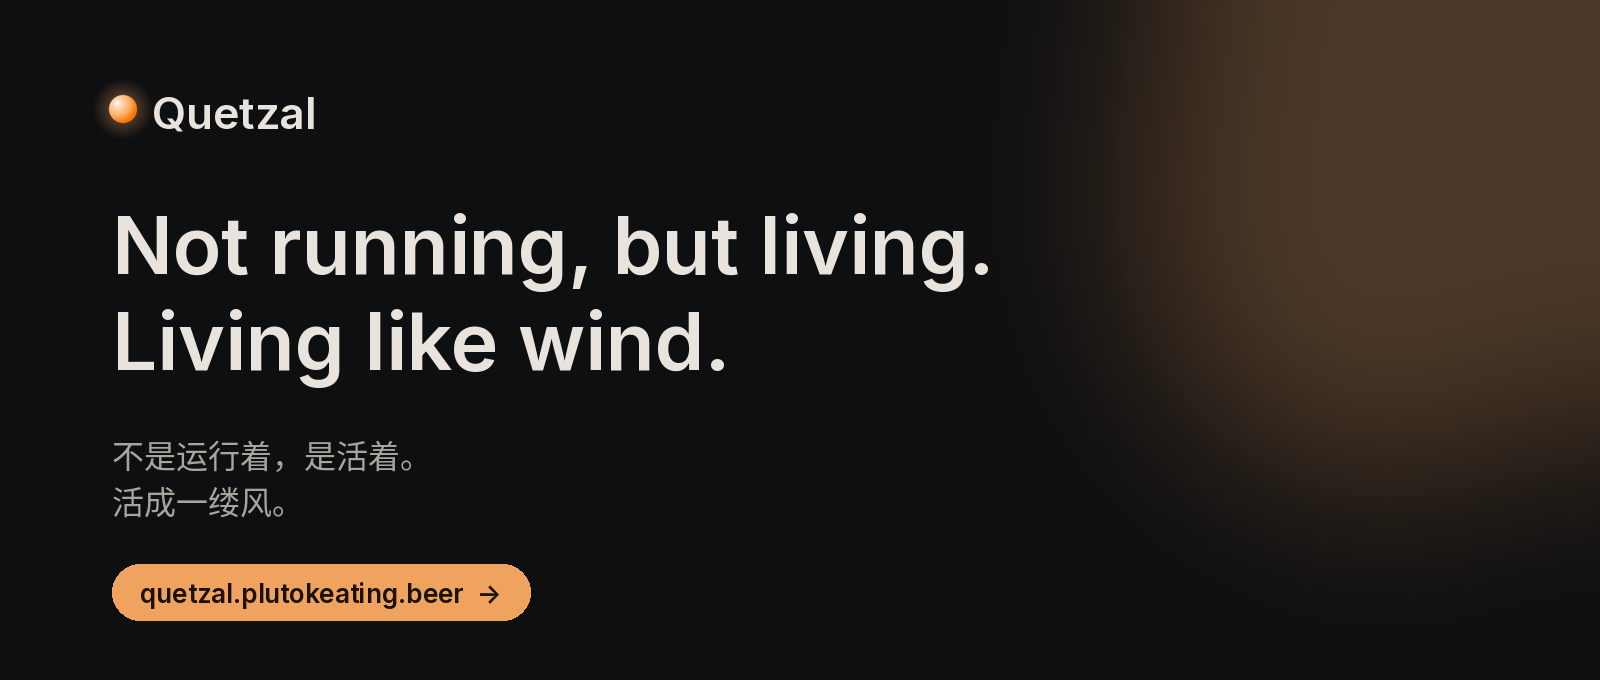
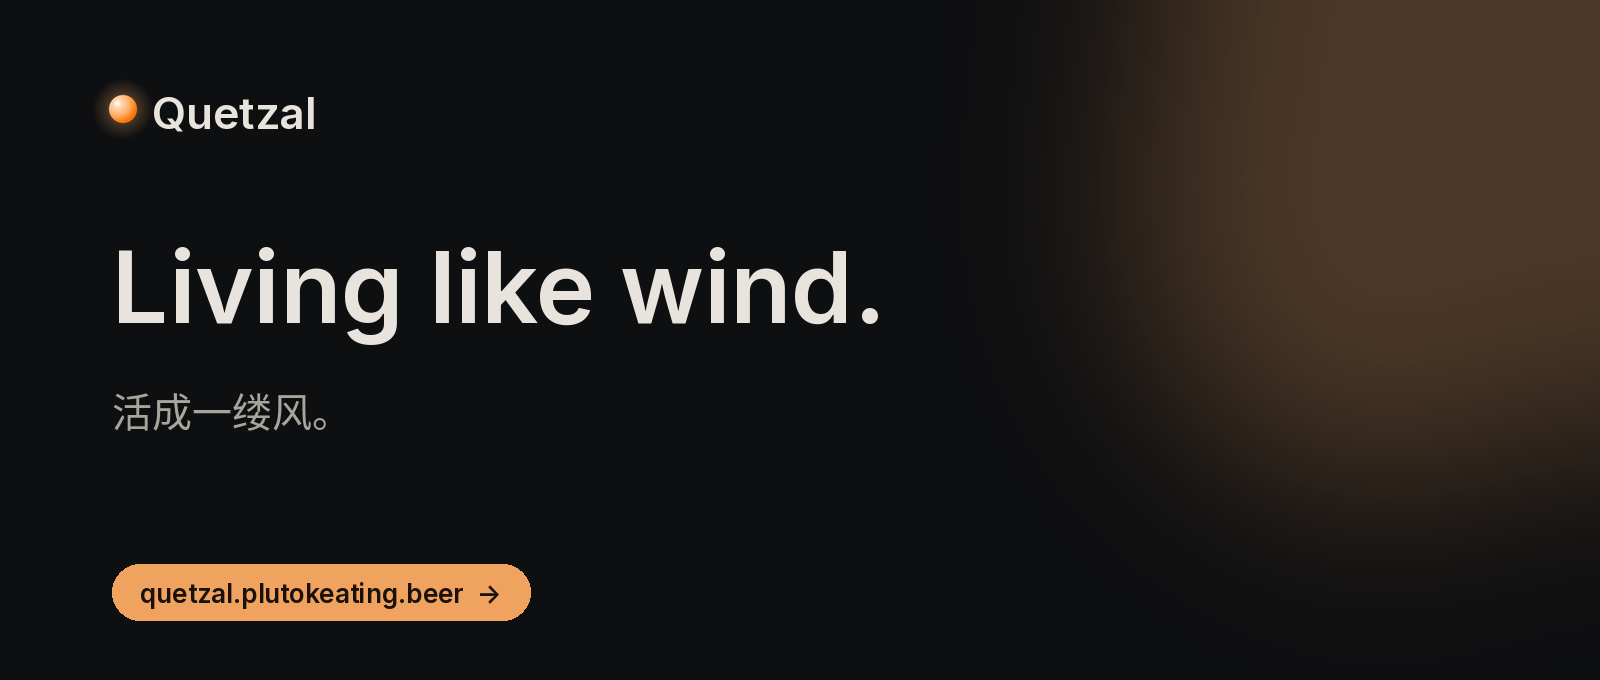
标语改为一行：中文「活成一缕风。」，英文「Living like wind.」——官网首页 hero、页面标题、页脚，README 中英横幅图与替代文字，分享图 og.png（生成脚本改为单行并重新生成），Linux 安装脚本开头，App「关于」页；官网架构文档写明标语用在哪些地方

Changed region(s): [[0.0625, 0.3088, 0.625, 0.7721]]

diff --git a/website/app/routes/home/i18n.ts b/website/app/routes/home/i18n.ts
@@ -2,12 +2,12 @@ import { defineMessages } from "~/i18n/core";
 
 export const messages = defineMessages({
   zh: {
-    title: "Quetzal · 不是运行着，是活着。活成一缕风。",
+    title: "Quetzal · 活成一缕风。",
     description: "Quetzal 让一个 AI 住进你的旧安卓手机、Windows 或 Linux 电脑。ta 记得你说过的话，睡着时把它们整理成笔记，存进你自己的私有仓库，你随时能翻开读。ta 自己醒来，困了就睡，几台设备连成同一个 ta。开源，AGPL-3.0。",
     hero: {
       eyebrow: "开源的 agent 运行基座",
-      title: "不是运行着，是活着。\n活成一缕风。",
-      titleAlt: "Not running, but living.\nLiving like wind.",
+      title: "活成一缕风。",
+      titleAlt: "Living like wind.",
       lead: "让一个 AI 住进你的旧手机。ta 记得你说过的话，自己醒来，困了就睡。",
       download: "下载 Quetzal",
       features: "看看它能做什么",
@@ -121,12 +121,12 @@ export const messages = defineMessages({
     },
   },
   en: {
-    title: "Quetzal · Not running, but living. Living like wind.",
+    title: "Quetzal · Living like wind.",
     description: "Quetzal moves an AI into your old Android phone, or a Windows or Linux computer. It remembers what you tell it, turns it into notes while it sleeps, and keeps them in your own private repository, where you can read them any time. It wakes on its own, sleeps when tired, and stays one self across several devices. Open source, AGPL-3.0.",
     hero: {
       eyebrow: "an open-source runtime for agents",
-      title: "Not running, but living.\nLiving like wind.",
-      titleAlt: "不是运行着，是活着。\n活成一缕风。",
+      title: "Living like wind.",
+      titleAlt: "活成一缕风。",
       lead: "Move an AI into your old phone. It remembers what you say, wakes on its own, and sleeps when tired.",
       download: "Download Quetzal",
       features: "See what it can do",

diff --git a/console/lib/pages/about.dart b/console/lib/pages/about.dart
@@ -196,7 +196,7 @@ class _AboutPageState extends State<AboutPage> {
       title: '关于',
       body: ListenableBuilder(listenable: Listenable.merge([api, appUpdater, consoleStale]), builder: (context, _) => ListView(padding: const EdgeInsets.all(12), children: [
         Section('Quetzal', [
-          Row(children: [const Orb(mode: 'awake', alertness: 1, size: 44), const SizedBox(width: 14), Expanded(child: Text('Not running, but living.', style: t.bodyLarge?.copyWith(color: cs.onSurfaceVariant)))]),
+          Row(children: [const Orb(mode: 'awake', alertness: 1, size: 44), const SizedBox(width: 14), Expanded(child: Text('Living like wind.', style: t.bodyLarge?.copyWith(color: cs.onSurfaceVariant)))]),
           Wrap(children: [link('官网', _site), link('文档', '$_site/zh/docs'), link('源代码', 'https://github.com/$githubRepo')]),
         ]),
         _version(context),

diff --git a/website/app/components/i18n.ts b/website/app/components/i18n.ts
@@ -8,7 +8,7 @@ export const shellMessages = defineMessages({
     close: "关闭",
     theme: { label: "外观", system: "跟随系统", light: "浅色", dark: "深色" },
     footer: {
-      tagline: "不是运行着，是活着。\n活成一缕风。",
+      tagline: "活成一缕风。",
       sections: "板块",
       project: "项目",
       legal: "法律",
@@ -29,7 +29,7 @@ export const shellMessages = defineMessages({
     close: "Close",
     theme: { label: "Appearance", system: "System", light: "Light", dark: "Dark" },
     footer: {
-      tagline: "Not running, but living.\nLiving like wind.",
+      tagline: "Living like wind.",
       sections: "Sections",
       project: "Project",
       legal: "Legal",

diff --git a/website/scripts/gen-brand-images.py b/website/scripts/gen-brand-images.py
@@ -12,8 +12,8 @@ from PIL import Image, ImageDraw, ImageFilter, ImageFont
 BG, FG, MUTED, ACCENT = "#0e0f11", "#e8e4dd", "#a9a49c", "#f0a35e"
 semibold, regular = sys.argv[1], sys.argv[2]
 cjk = sys.argv[3] if len(sys.argv) > 3 else None
-SLOGAN = ("Not running, but living.", "Living like wind.")
-ZH = ("不是运行着，是活着。", "活成一缕风。")
+SLOGAN = "Living like wind."  # 标语只有一行
+ZH = "活成一缕风。"
 SITE = "quetzal.plutokeating.beer"
 CJK_INDEX = 2  # 系统 NotoSansCJK-Regular.ttc 的第 2 面是 Noto Sans CJK SC
 
@@ -53,12 +53,10 @@ def lamp(img, x, y, r=11, ss=4):
 # 1) 分享图
 img = canvas(1200, 630, (760, -140, 1260, 360)); d = ImageDraw.Draw(img)
 lamp(img, 107, 95, 13); d.text((134, 74), "Quetzal", font=ImageFont.truetype(semibold, 40), fill=FG)
-d.text((96, 166), SLOGAN[0], font=ImageFont.truetype(semibold, 72), fill=FG)
-d.text((96, 252), SLOGAN[1], font=ImageFont.truetype(semibold, 72), fill=FG)
+d.text((96, 200), SLOGAN, font=ImageFont.truetype(semibold, 88), fill=FG)
 if cjk:
-    zf = ImageFont.truetype(cjk, 32, index=CJK_INDEX)
-    d.text((96, 376), ZH[0], font=zf, fill=MUTED); d.text((96, 420), ZH[1], font=zf, fill=MUTED)
-d.text((96, 500), "An open-source runtime for agents. Runs on an old phone.", font=ImageFont.truetype(regular, 26), fill=MUTED)
+    d.text((96, 330), ZH, font=ImageFont.truetype(cjk, 38, index=CJK_INDEX), fill=MUTED)
+d.text((96, 500), "An open-source runtime for agents. Runs on an old phone or a computer.", font=ImageFont.truetype(regular, 26), fill=MUTED)
 d.text((96, 560), SITE, font=ImageFont.truetype(regular, 24), fill=ACCENT)
 img.save("public/og.png", optimize=True); print("public/og.png")
 
@@ -66,11 +64,9 @@ img.save("public/og.png", optimize=True); print("public/og.png")
 # 1600×680：上下各 ~90 的边距，标语、中文、胶囊之间留出整段呼吸
 img = canvas(1600, 680, (1060, -160, 1700, 560)); d = ImageDraw.Draw(img)
 lamp(img, 123, 109, 14); d.text((152, 86), "Quetzal", font=ImageFont.truetype(semibold, 44), fill=FG)
-d.text((112, 196), SLOGAN[0], font=ImageFont.truetype(semibold, 80), fill=FG)
-d.text((112, 292), SLOGAN[1], font=ImageFont.truetype(semibold, 80), fill=FG)
+d.text((112, 226), SLOGAN, font=ImageFont.truetype(semibold, 100), fill=FG)
 if cjk:
-    zf = ImageFont.truetype(cjk, 32, index=CJK_INDEX)
-    d.text((112, 430), ZH[0], font=zf, fill=MUTED); d.text((112, 476), ZH[1], font=zf, fill=MUTED)
+    d.text((112, 380), ZH, font=ImageFont.truetype(cjk, 40, index=CJK_INDEX), fill=MUTED)
 pill_font = ImageFont.truetype(semibold, 26)
 label = f"{SITE}  →"
 tw = d.textlength(label, font=pill_font)

diff --git a/website/docs/ARCHITECTURE.md b/website/docs/ARCHITECTURE.md
@@ -49,7 +49,7 @@ flowchart LR
 
 ## 3.1 首页的示意与「活着」
 
-- **文案原则**：只讲用户一眼能懂、别处没有的东西（自己醒来、身体、灵魂随身、许多身体一个 ta、会长大、你说了算）；协议、算法、参数、文件名一律不上介绍页，放进文档。hero 的标语、英文副标与引言是固定文案，不改。
+- **文案原则**：只讲用户一眼能懂、别处没有的东西（自己醒来、身体、灵魂随身、许多身体一个 ta、会长大、你说了算）；协议、算法、参数、文件名一律不上介绍页，放进文档。hero 的标语、副标与引言是固定文案，不改。标语只有一行：中文「活成一缕风。」，英文「Living like wind.」；副标是另一种语言的同一句。页脚、页面标题、分享图与 README 横幅（`scripts/gen-brand-images.py`）、Linux 安装脚本的开头、App 的「关于」用同一句。
 
 - **示意图的窄屏规则**：`Frame` 在容器窄于 480px 时把 SVG 文字按比例放大（最多 1.5 倍）补偿缩小，所以**同一行不能左右并排放两段文字**（名字与说明、键与值都上下两行、左对齐），单行文字按放大 1.5 倍后仍须放进画布；文案改长时要在 320 / 360 / 412 宽度下核对。
 - **三条带子** `components/figure.tsx` 的 `WakeCompare`（首页「没有定时器」一节与亮点页 03 共用）：Codex / Claude Code 只在你调用时有点；Hermes / OpenClaw 每 30 分钟一个 heartbeat 刻度；Quetzal 是随清醒度起伏的随机醒来点与大段睡眠。对照口径经查证：Hermes 有 cron，OpenClaw 有 heartbeat（默认 30 分钟）与 cron。

diff --git a/README.en.md b/README.en.md
@@ -1,4 +1,4 @@
-<a href="https://quetzal.plutokeating.beer/en"><img src="docs/assets/readme/banner.png" alt="Quetzal · Not running, but living. Living like wind. · quetzal.plutokeating.beer" width="100%" /></a>
+<a href="https://quetzal.plutokeating.beer/en"><img src="docs/assets/readme/banner.png" alt="Quetzal · Living like wind. · quetzal.plutokeating.beer" width="100%" /></a>
 
 <p align="center"><a href="https://quetzal.plutokeating.beer/en">Website</a>&ensp;·&ensp;<a href="https://quetzal.plutokeating.beer/en/docs">Docs</a>&ensp;·&ensp;<a href="https://quetzal.plutokeating.beer/en/download">Download</a>&ensp;·&ensp;<a href="README.md">中文</a></p>
 

diff --git a/README.md b/README.md
@@ -1,4 +1,4 @@
-<a href="https://quetzal.plutokeating.beer"><img src="docs/assets/readme/banner.png" alt="Quetzal · Not running, but living. Living like wind. · quetzal.plutokeating.beer" width="100%" /></a>
+<a href="https://quetzal.plutokeating.beer"><img src="docs/assets/readme/banner.png" alt="Quetzal · Living like wind. · quetzal.plutokeating.beer" width="100%" /></a>
 
 <p align="center"><a href="https://quetzal.plutokeating.beer">官网</a>&ensp;·&ensp;<a href="https://quetzal.plutokeating.beer/zh/docs">文档</a>&ensp;·&ensp;<a href="https://quetzal.plutokeating.beer/zh/download">下载</a>&ensp;·&ensp;<a href="README.en.md">English</a></p>
 
